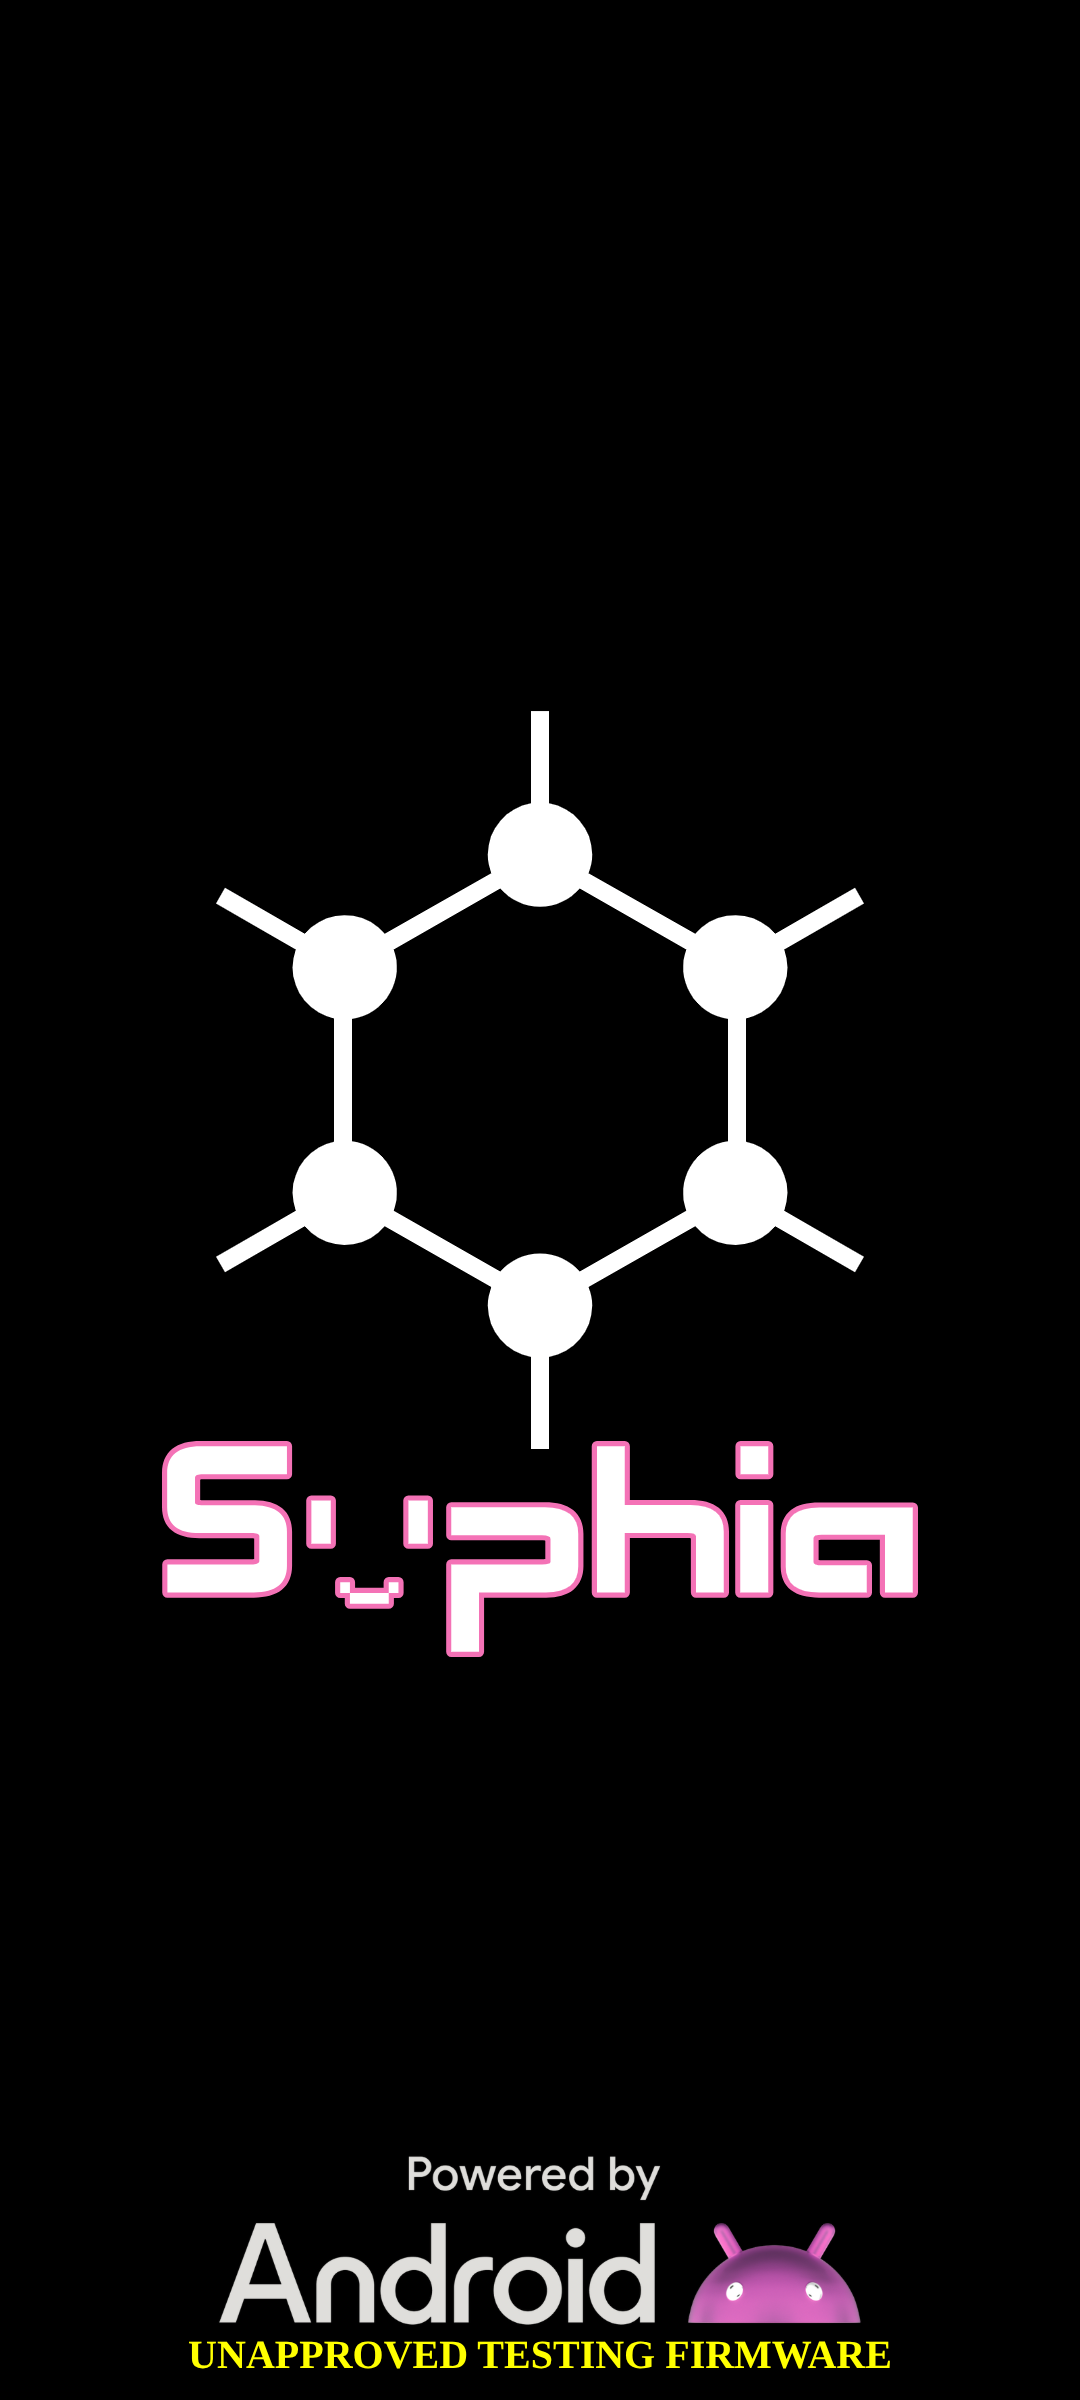
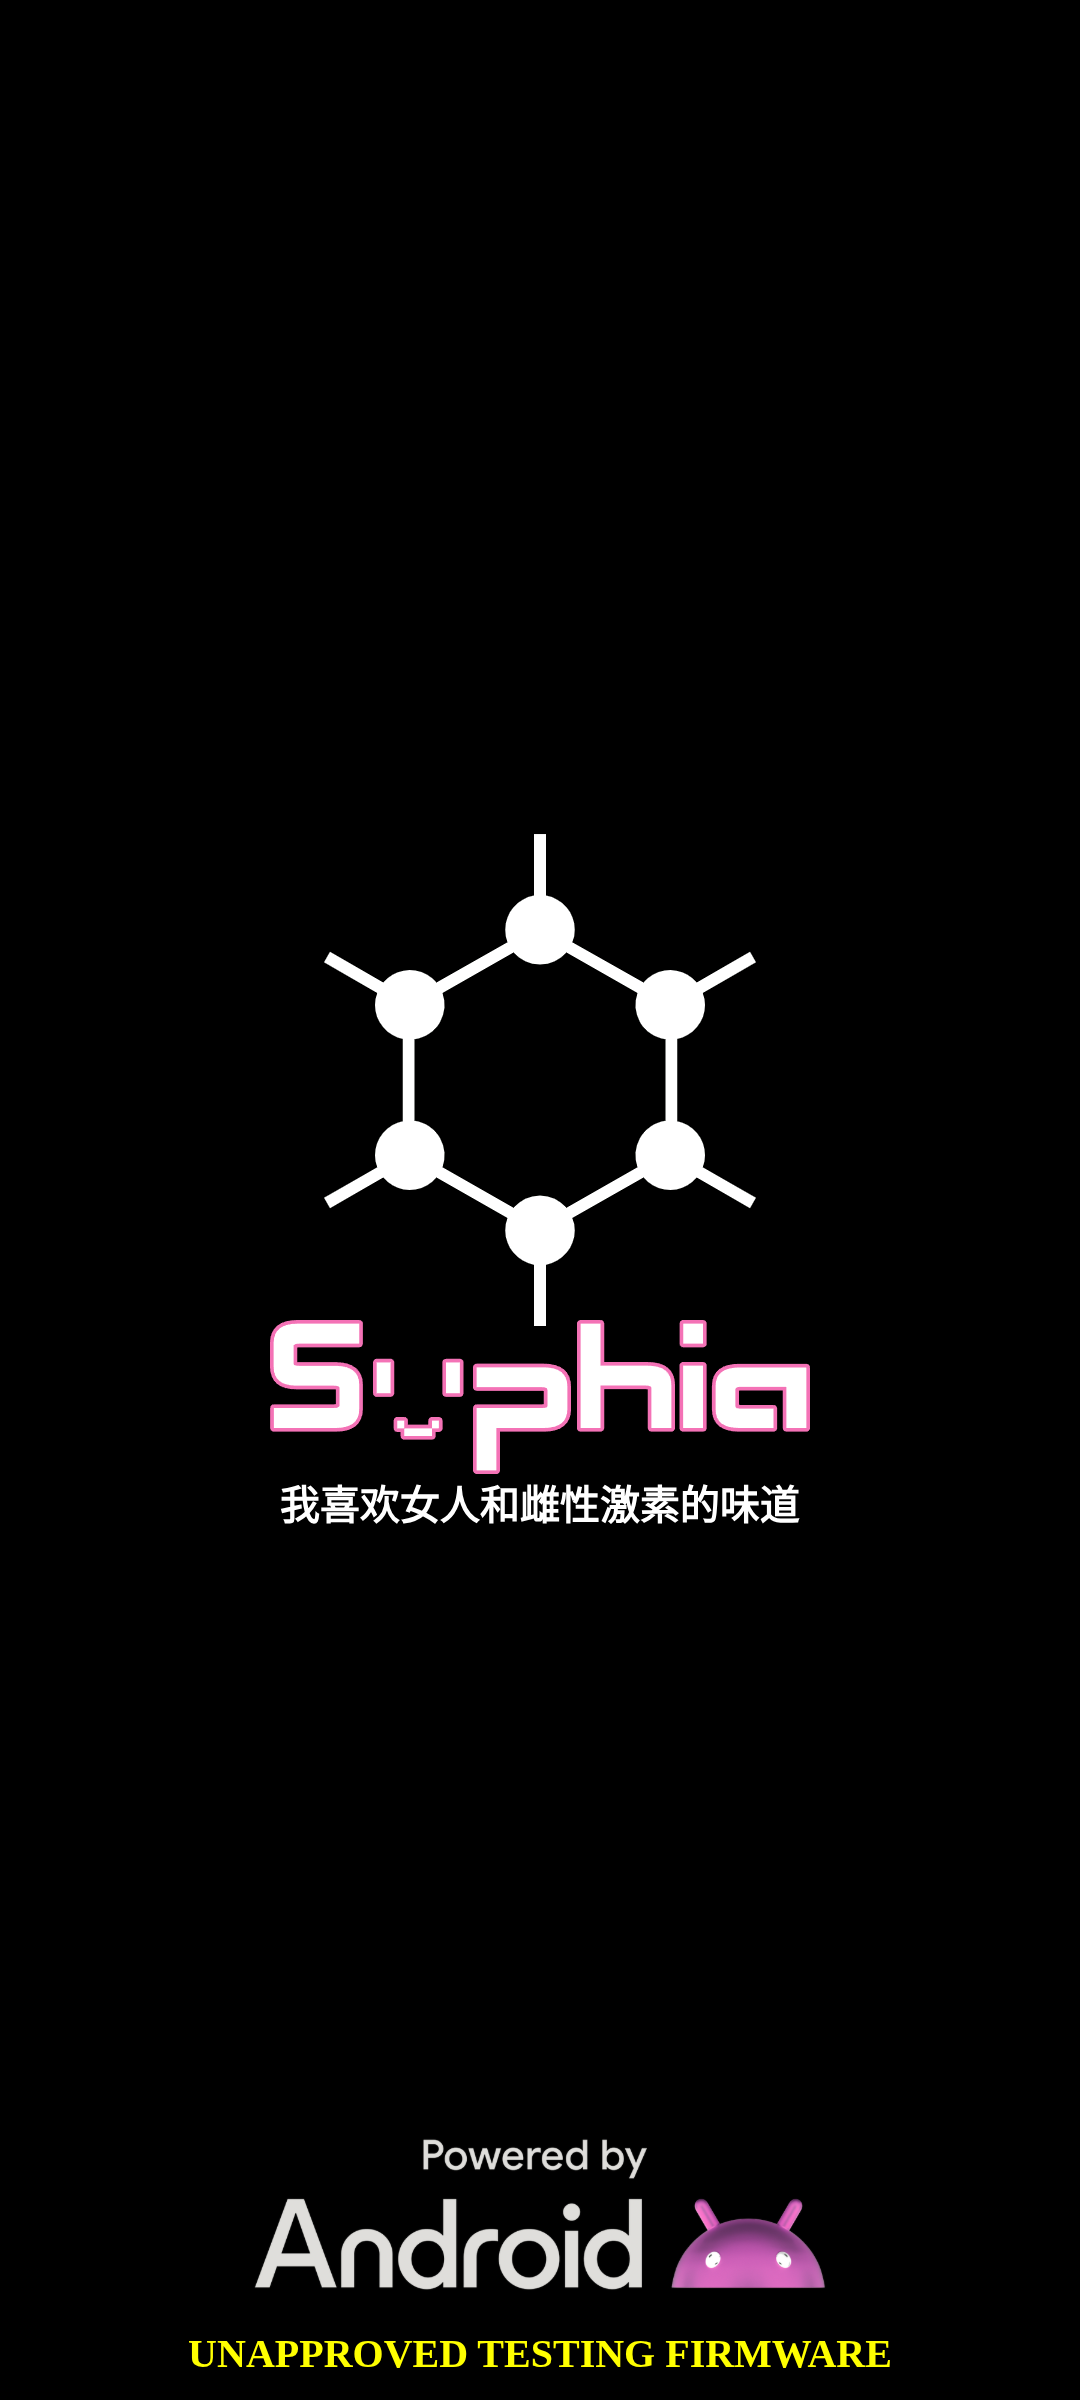
feat(uruha-rushia): :lipstick: decrease size of boot elements, add chinese text

Changed region(s): [[0.1528, 0.2812, 0.8556, 0.6875], [0.2139, 0.875, 0.7944, 0.9688]]

diff --git a/robotnixModules/meta/base/bootmask.html b/robotnixModules/meta/base/bootmask.html
@@ -6,9 +6,6 @@
         .container {
             height: 2400px;
             position: relative;
-
-            /* Chrome screenshot otherwise off by one :/ */
-            padding-bottom: 1px;
         }
 
         .bootmask-container {
@@ -17,7 +14,7 @@
         }
 
         .shine-container {
-            width: calc(1080px * 5);
+            width: calc(1080px * 2.5);
         }
 
         .mask {
@@ -29,10 +26,10 @@
         
         .title {
             position: absolute;
-            top: 60%;
+            top: 55%;
             left: 50%;
             transform: translateX(-50%);
-            width: 70%;
+            width: 50%;
         }
 
         .logo {
@@ -40,15 +37,15 @@
             top: 45%;
             left: 50%;
             transform: translateX(-50%) translateY(-50%);
-            width: 60%;
+            width: 40%;
         }
 
         .powered-by {
             position: absolute;
-            bottom: -2%;
+            bottom: 0;
             left: 50%;
             transform: translateX(-50%);
-            width: 90%;
+            width: 80%;
             filter: invert();
         }
         
@@ -62,6 +59,15 @@
             text-align: center;
             font-size: 40px;
             bottom: -0.1em;
+            position: absolute;
+            width: 100%;
+        }
+
+        h2 {
+            color: rgb(0,255,0);
+            text-align: center;
+            font-size: 40px;
+            top: 60%;
             position: absolute;
             width: 100%;
         }
@@ -91,6 +97,7 @@
         <h1>UNAPPROVED TESTING FIRMWARE</h1>
         <img class="mask logo" src="https://upload.wikimedia.org/wikipedia/commons/1/19/GrapheneOS_Logo.svg">
         <img class="title" src="https://sophiah.gay/assets/Sophia%20Logo%20-%20Inverted-C_bvJ8PJ.svg">
+        <h2>我喜欢女人和雌性激素的味道</h1>
         <img class="powered-by" src="https://b.catgirlsare.sexy/Ae9LMckkXjDD.png">
     </div>
 
